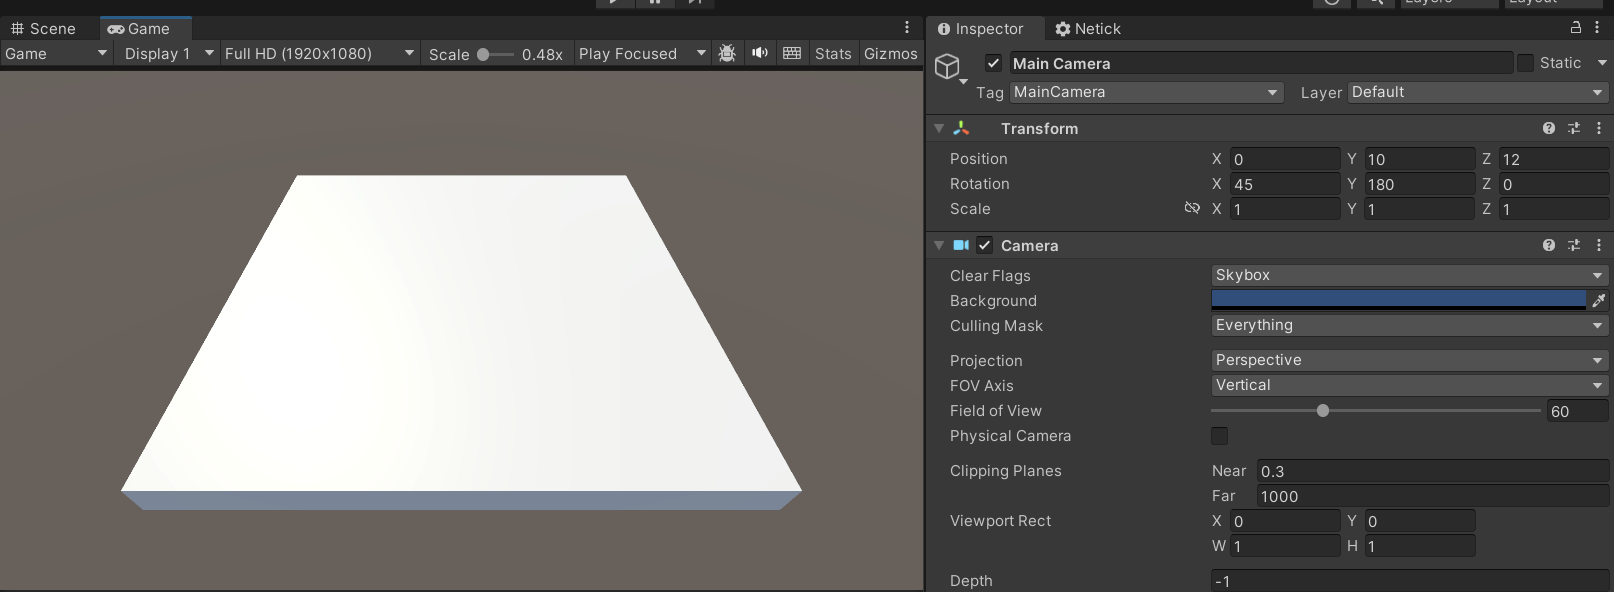
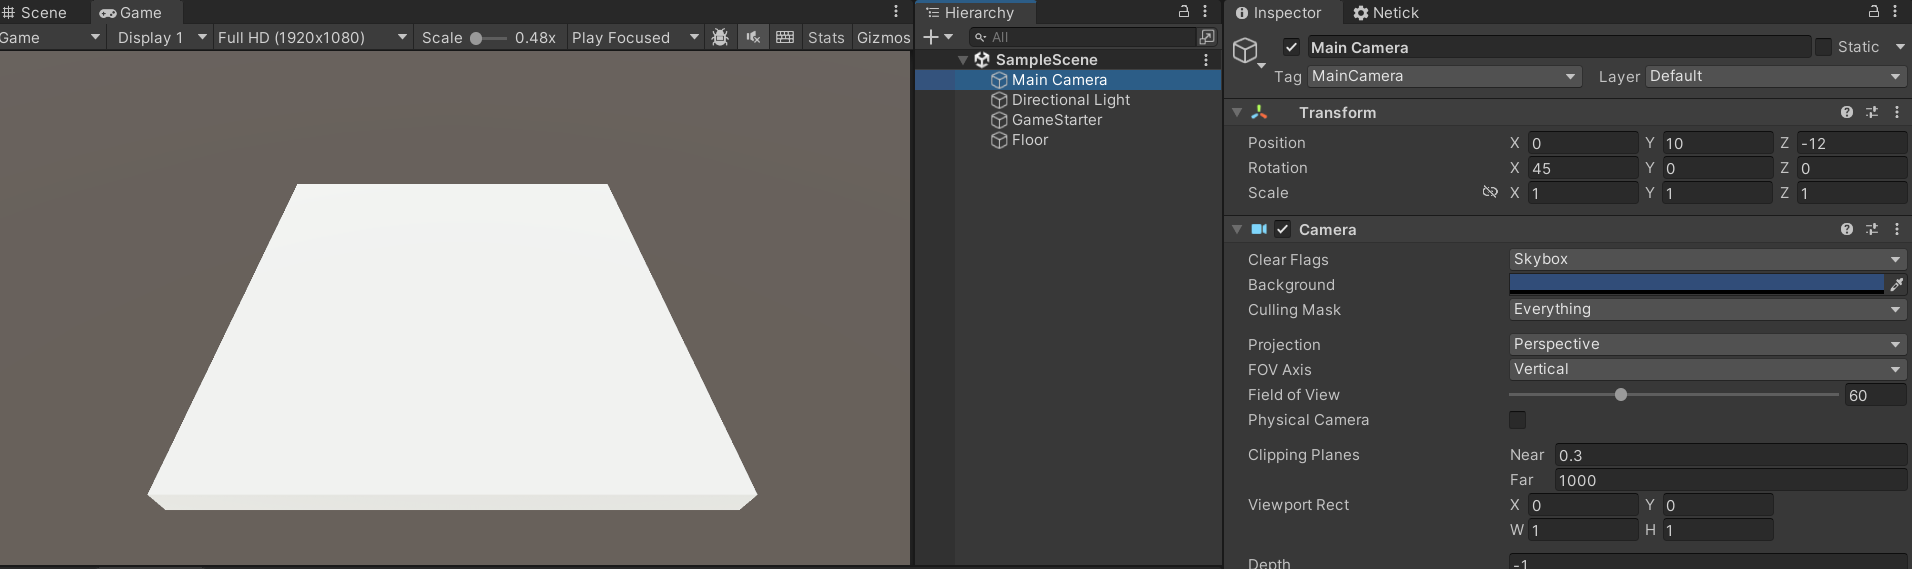
docs: 102 camera adjustment
fix position & rotation

diff --git a/articles/2-setting-up-the-game.md b/articles/2-setting-up-the-game.md
@@ -52,7 +52,7 @@ Let's create a 3D Cube with a scale of `(15, -1.5, 15)` and name it "Floor".
 <figure><img src="../images/getting-started/102-floor.png" alt=""><figcaption></figcaption></figure>
 
 ### Camera
-Modify the camera's position to `(0, 10, 12)` and adjust its rotation to `(45, 180, 0)`.
+Modify the camera's position to `(0, 10, -12)` and adjust its rotation to `(45, 0, 0)`.
 
 <figure><img src="../images/getting-started/102-camera.png" alt=""><figcaption></figcaption></figure>
 
